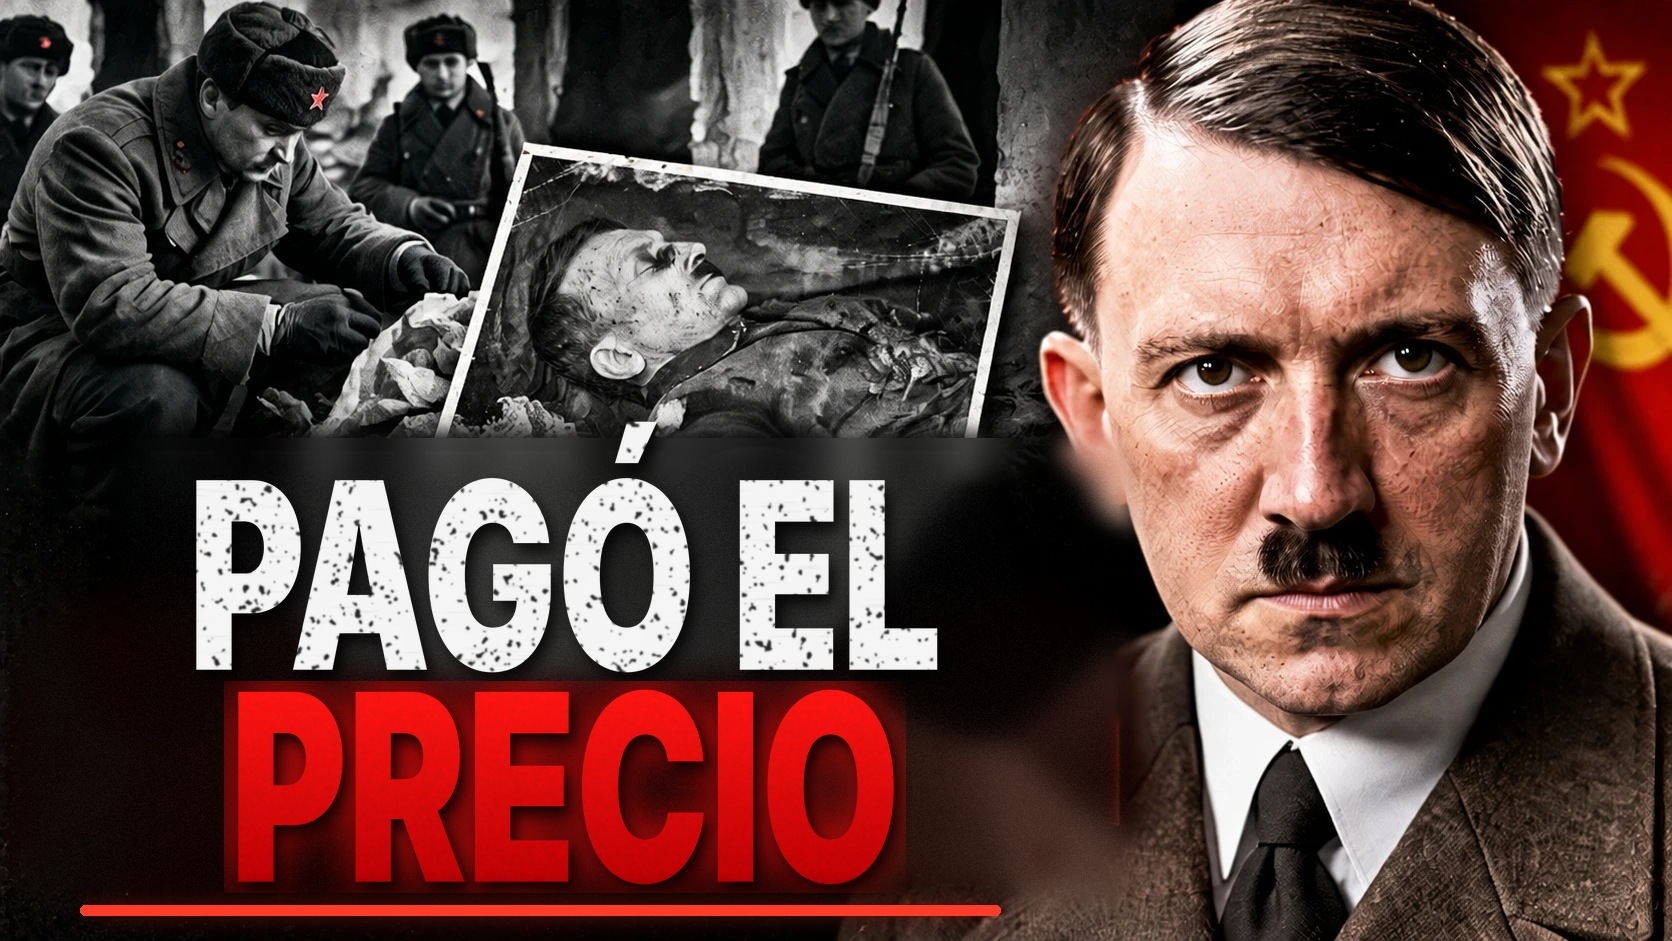
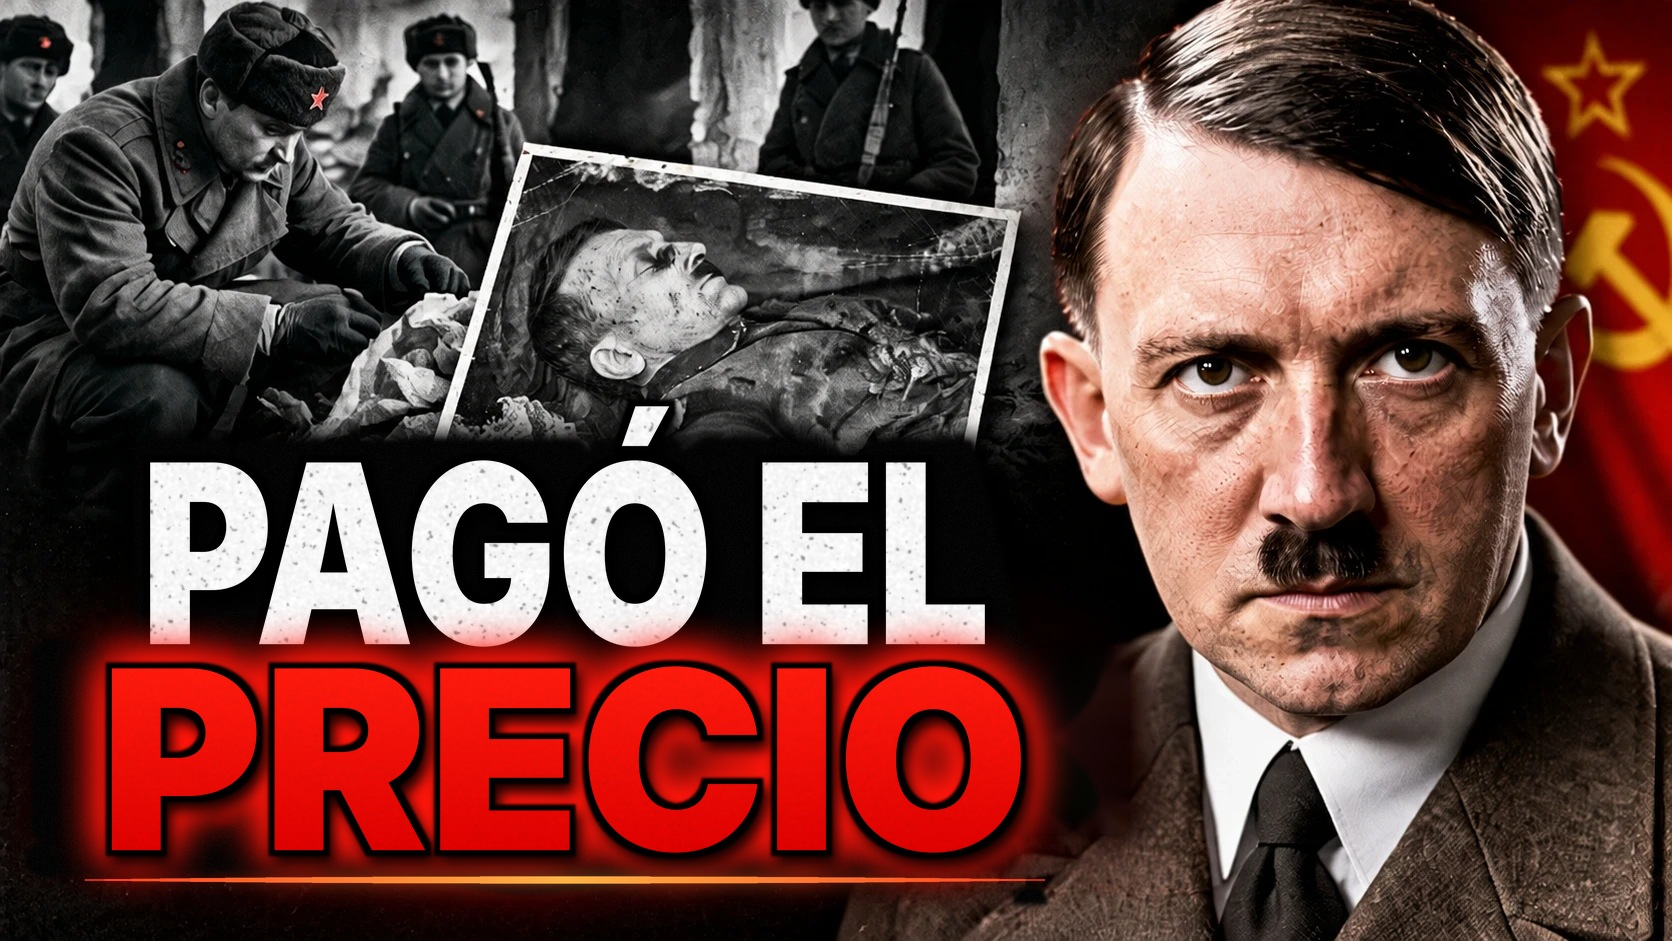
Miniatura PAGO/PRECIO: texto con el mismo formato que la referencia, sin fondo borroso
Claude-Session: https://claude.ai/code/session_011QfsHNEVyrMTuqwhNXZ9Nu

Changed region(s): [[0.0311, 0.4006, 0.6842, 0.9862], [0.622, 0.4623, 0.6842, 0.5855]]

diff --git a/la_cosa_nuestra/miniaturas/cambiar_texto_pago.py b/la_cosa_nuestra/miniaturas/cambiar_texto_pago.py
@@ -1,6 +1,7 @@
 #!/usr/bin/env python3
-"""Reemplaza el texto 'NUNCA / LO MOSTRARON' de la miniatura de referencia (assets/ref_pago_original.png) por
-'PAGÓ EL' (blanco texturizado) y 'PRECIO' (rojo carmesí con brillo). Borra el texto viejo reconstruyendo el fondo oscuro (inpainting).
+"""Reemplaza el texto 'NUNCA / LO MOSTRARON' de la miniatura de referencia (assets/ref_pago_original.png) por otro texto con el MISMO formato:
+linea 1 en blanco desgastado con contorno negro grueso, linea 2 en rojo con contorno negro y brillo, y la linea roja brillante debajo.
+El texto viejo se borra con negro nitido (sin difuminar el fondo).
 Uso: python3 cambiar_texto_pago.py [salida.jpg] [linea1] [linea2]"""
 import os, sys
 import cv2, numpy as np
@@ -8,118 +9,123 @@ from PIL import Image, ImageDraw, ImageFilter, ImageFont
 
 AQUI = os.path.dirname(os.path.abspath(__file__))
 FONT = "/usr/share/fonts/opentype/inter/Inter-Black.otf"
-ZONA = (20, 425, 1128, 905)                       # x0, y0, x1, y1 donde esta el texto viejo (no toca el rostro)
+ZONA = (20, 440, 1128, 905)                       # x0, y0, x1, y1 donde esta el texto viejo (no toca el rostro)
 
 
 def borrar_texto(bgr):
-    """borra el texto viejo (letras + contorno negro + sombra) con inpainting sobre una mascara muy dilatada y grano"""
+    """tapa solo las letras viejas (con su contorno) con negro y grano; el resto de la imagen queda tal cual, sin desenfoque"""
     x0, y0, x1, y1 = ZONA
-    reg = bgr[y0:y1, x0:x1]
-    b, g, r = [reg[..., i].astype(np.int32) for i in range(3)]
+    reg = bgr[y0:y1, x0:x1].astype(np.int32)
+    b, g, r = reg[..., 0], reg[..., 1], reg[..., 2]
     lum = (b + g + r) // 3
-    m = ((lum > 120) | ((r > 120) & (g < 95) & (b < 95)) | ((r > 70) & (r - g > 45))).astype(np.uint8) * 255
-    m = cv2.dilate(m, cv2.getStructuringElement(cv2.MORPH_ELLIPSE, (61, 61)))          # cubre el contorno negro y la sombra
+    blanco = (lum > 150) & (np.abs(r - b) < 40)                                 # letras blancas
+    rojo = (r > 110) & (g < 100) & (b < 100)                                    # letras rojas y brillo
+    m = (blanco | rojo).astype(np.uint8) * 255
+    yy, xx = np.mgrid[0:m.shape[0], 0:m.shape[1]]
+    m[(xx + x0 > 1030) & (yy + y0 < 650)] = 0                                    # no tocar la oreja / cuello del rostro
+    m[(xx + x0 > 1030) & (yy + y0 > 640)] = 0                                    # el hombro se trata aparte (abajo)
+    m = cv2.dilate(m, cv2.getStructuringElement(cv2.MORPH_ELLIPSE, (35, 35)))   # cubre el contorno negro y la sombra
     full = np.zeros(bgr.shape[:2], np.uint8); full[y0:y1, x0:x1] = m
-    full[:y0 + 14] = 0                                                                  # no tocar la foto de arriba
-    chico = cv2.resize(bgr, None, fx=0.4, fy=0.4); mchico = cv2.resize(full, None, fx=0.4, fy=0.4, interpolation=cv2.INTER_NEAREST)
-    rell = cv2.inpaint(chico, mchico, 12, cv2.INPAINT_TELEA)
-    rell = cv2.GaussianBlur(rell, (0, 0), 4)
-    grande = cv2.resize(rell, (bgr.shape[1], bgr.shape[0]), interpolation=cv2.INTER_CUBIC)
-    sel = cv2.GaussianBlur(full.astype(np.float32) / 255.0, (0, 0), 10)
-    ruido = np.random.default_rng(2).normal(0, 3.2, bgr.shape[:2])[..., None]
-    out = bgr.astype(np.float32) * (1 - sel[..., None]) + (grande + ruido) * sel[..., None]
-    out = np.clip(out, 0, 255)
-    # resto del contorno viejo justo bajo la foto: se funde con la ultima fila de la foto hacia el fondo
-    fila = cv2.GaussianBlur(out[430:437].mean(axis=0, keepdims=True), (0, 0), sigmaX=18)[0]
-    xs = np.arange(out.shape[1]); hor = np.clip(np.minimum(xs - 110, 1040 - xs) / 40.0, 0, 1)
-    for y in range(438, 488):
-        a = ((y - 438) / 50.0) ** 1.3
-        mezcla = fila * (1 - a) + out[y] * a
-        out[y] = out[y] * (1 - hor[:, None]) + mezcla * hor[:, None]
-    out = out.astype(np.uint8)
-    # resto vertical rojo de la ultima letra del texto viejo, junto al hombro
-    r = np.zeros(out.shape[:2], np.uint8); r[640:725, 1104:1128] = 255
-    out = cv2.inpaint(out, r, 6, cv2.INPAINT_TELEA)
+    sel = cv2.GaussianBlur(full.astype(np.float32) / 255.0, (0, 0), 2.5)
+    ruido = np.clip(np.random.default_rng(2).normal(4, 2.2, bgr.shape[:2]), 0, 14)[..., None]
+    out = bgr.astype(np.float32) * (1 - sel[..., None]) + np.repeat(ruido, 3, 2) * sel[..., None]
+    out = np.clip(out, 0, 255).astype(np.uint8)
+    # zona del hombro (x > 1030): se restaura el original y solo se quita el resto rojo/negro de la ultima letra con inpainting local
+    X = 1030; Y0, Y1 = 640, 860
+    sub = bgr[Y0:Y1, X:1130].copy(); b_, g_, r_ = [sub[..., i].astype(np.int32) for i in range(3)]
+    resto = ((r_ > 90) & (r_ - g_ > 45) & (r_ - b_ > 45)).astype(np.uint8) * 255
+    resto = cv2.dilate(resto, cv2.getStructuringElement(cv2.MORPH_ELLIPSE, (17, 17)))
+    out[Y0:Y1, X:1130] = cv2.inpaint(sub, resto, 7, cv2.INPAINT_TELEA)
     return out
 
 
-def mascara_texto(s, alto_mayus, ancho_max=None, estrecho=0.74):
-    """mascara L del texto en tipografia 'condensada' (Inter Black comprimida en horizontal)"""
+def mascara_texto(s, cap, ancho):
+    """mascara L del texto en tipografia pesada: alto de mayusculas = cap, ancho total = ancho"""
     f = ImageFont.truetype(FONT, 600)
     bb = f.getbbox(s); w, h = bb[2] - bb[0], bb[3] - bb[1]
     m = Image.new("L", (w + 40, h + 40), 0); ImageDraw.Draw(m).text((20 - bb[0], 20 - bb[1]), s, font=f, fill=255)
-    cap = f.getbbox("H")[3] - f.getbbox("H")[1]
-    k = alto_mayus / cap
-    nw = int(m.width * k * estrecho); nh = int(m.height * k * 1.08)
-    if ancho_max and nw > ancho_max:
-        e = ancho_max / nw; nw = int(nw * e)
+    capb = f.getbbox("H"); capb = capb[3] - capb[1]
+    k = cap / capb
+    nh = int(m.height * k)
+    nw = int((m.width - 40) * ancho / (m.width - 40) * 1.0) if False else int(ancho * (m.width / (m.width - 40)))
     return m.resize((nw, nh), Image.LANCZOS)
 
 
-def arriba(m, cap):
-    """filas vacias sobre las mayusculas dentro de la mascara (margen + acento)"""
-    a = (np.asarray(m) > 128).sum(axis=1); filas = np.nonzero(a > 0.3 * a.max())[0]            # ignora el acento (poca tinta)
+def arriba(m):
+    """fila donde empiezan las mayusculas (ignora acentos)"""
+    a = (np.asarray(m) > 128).sum(axis=1); filas = np.nonzero(a > 0.3 * a.max())[0]
     return int(filas[0]) if len(filas) else 0
 
 
-def blanco_piedra(m):
-    """relleno blanco con manchas oscuras de desgaste (estilo piedra/granulado)"""
+def contorno(m, grosor):
+    """mascara agrandada para el contorno negro"""
+    return m.filter(ImageFilter.MaxFilter(2 * grosor + 1)).filter(ImageFilter.GaussianBlur(1.2))
+
+
+def capa_blanca(m):
+    """letras blancas con desgaste gris claro y rayones, contorno negro grueso"""
     w, h = m.size; r = np.random.default_rng(7)
-    base = np.full((h, w), 245, np.float32)
-    gran = cv2.GaussianBlur(r.normal(0, 1, (h, w)).astype(np.float32), (0, 0), 14) * 18
-    base += gran
-    motas = cv2.GaussianBlur(r.random((h, w)).astype(np.float32), (0, 0), 1.6)
-    oscuro = (motas < np.percentile(motas, 5.5)).astype(np.float32)
-    oscuro = cv2.GaussianBlur(oscuro, (0, 0), 0.9)
-    base = base * (1 - 0.92 * oscuro) + 20 * 0.92 * oscuro
-    rayas = cv2.GaussianBlur((r.random((h, w)) < 0.0008).astype(np.float32), (0, 0), sigmaX=9, sigmaY=0.8) * 400
-    base -= rayas
+    base = np.full((h, w), 247, np.float32)
+    gran = cv2.GaussianBlur(r.normal(0, 1, (h, w)).astype(np.float32), (0, 0), 9) * 16
+    fino = cv2.GaussianBlur(r.normal(0, 1, (h, w)).astype(np.float32), (0, 0), 1.3) * 16
+    base += gran + fino
+    motas = cv2.GaussianBlur(r.random((h, w)).astype(np.float32), (0, 0), 1.2)
+    oscuro = cv2.GaussianBlur((motas < np.percentile(motas, 2.2)).astype(np.float32), (0, 0), 0.8)
+    base = base * (1 - 0.55 * oscuro) + 60 * 0.55 * oscuro
     base = np.clip(base, 0, 255).astype(np.uint8)
-    rgb = Image.fromarray(np.dstack([base] * 3), "RGB").convert("RGBA"); rgb.putalpha(m)
-    return rgb
+    cara = Image.fromarray(np.dstack([base] * 3), "RGB").convert("RGBA"); cara.putalpha(m)
+    return cara
 
 
-def rojo_carmesi(m):
+def capa_roja(m):
     w, h = m.size
-    g = np.linspace(0, 1, h)[:, None]
-    r_ = (255 - 70 * g) * np.ones((h, w)); g_ = (22 - 22 * g) * np.ones((h, w)); b_ = (18 - 14 * g) * np.ones((h, w))
-    ruido = cv2.GaussianBlur(np.random.default_rng(3).normal(0, 1, (h, w)).astype(np.float32), (0, 0), 1.0) * 10
-    arr = np.clip(np.dstack([r_ + ruido, g_, b_]), 0, 255).astype(np.uint8)
-    rgb = Image.fromarray(arr, "RGB").convert("RGBA"); rgb.putalpha(m)
-    return rgb
+    t = np.linspace(0, 1, h)[:, None]
+    R = (255 - 35 * t) * np.ones((h, w)); G = (28 - 28 * t) * np.ones((h, w)); B = (14 - 14 * t) * np.ones((h, w))
+    ruido = cv2.GaussianBlur(np.random.default_rng(3).normal(0, 1, (h, w)).astype(np.float32), (0, 0), 1.0) * 8
+    arr = np.clip(np.dstack([R + ruido, G, B]), 0, 255).astype(np.uint8)
+    cara = Image.fromarray(arr, "RGB").convert("RGBA"); cara.putalpha(m)
+    return cara
 
 
-def pegar(base, capa, xy, sombra=True, brillo=None):
-    b = base.convert("RGBA")
+def pegar(base, cara, m, xy, grosor, brillo=None, gl=24):
+    """pega letras con contorno negro grueso, sombra y (opcional) brillo de color; usa margen para que no se corte el halo"""
+    P = 70
+    mp = Image.new("L", (m.width + 2 * P, m.height + 2 * P), 0); mp.paste(m, (P, P))
+    cp = Image.new("RGBA", mp.size, (0, 0, 0, 0)); cp.paste(cara, (P, P))
+    b = base.convert("RGBA"); x, y = xy[0] - P, xy[1] - P
+    cnt = contorno(mp, grosor)
     if brillo:
-        al = capa.split()[3]; gl = Image.new("RGBA", capa.size, brillo + (255,)); gl.putalpha(al.filter(ImageFilter.GaussianBlur(22)).point(lambda v: min(255, int(v * 1.1))))
-        b.alpha_composite(gl, xy)
-    if sombra:
-        sh = Image.new("RGBA", capa.size, (0, 0, 0, 255)); sh.putalpha(capa.split()[3].filter(ImageFilter.GaussianBlur(7)).point(lambda v: int(v * 0.85)))
-        b.alpha_composite(sh, (xy[0] + 6, xy[1] + 9))
-    b.alpha_composite(capa, xy)
+        halo = Image.new("RGBA", mp.size, brillo + (255,)); halo.putalpha(cnt.filter(ImageFilter.GaussianBlur(gl)).point(lambda v: min(255, int(v * 1.4))))
+        b.alpha_composite(halo, (x, y)); b.alpha_composite(halo, (x, y))
+    sh = Image.new("RGBA", mp.size, (0, 0, 0, 255)); sh.putalpha(cnt.filter(ImageFilter.GaussianBlur(6)).point(lambda v: int(v * 0.9)))
+    b.alpha_composite(sh, (x + 5, y + 9))
+    neg = Image.new("RGBA", mp.size, (0, 0, 0, 255)); neg.putalpha(cnt)
+    b.alpha_composite(neg, (x, y)); b.alpha_composite(cp, (x, y))
     return b.convert("RGB")
 
 
-def linea_brillo(base, x0, x1, y):
-    b = base.convert("RGBA"); S = Image.new("RGBA", b.size, (0, 0, 0, 0)); d = ImageDraw.Draw(S)
-    d.rounded_rectangle((x0, y - 5, x1, y + 5), 5, fill=(255, 60, 40, 255))
-    halo = S.filter(ImageFilter.GaussianBlur(14)); b.alpha_composite(halo); b.alpha_composite(halo); b.alpha_composite(S)
+def linea_brillo(base, cx, ancho, y):
+    """linea roja/naranja brillante, mas gruesa en el centro, con halo"""
+    b = base.convert("RGBA"); S = 3
+    capa = Image.new("RGBA", (b.width * S, 80 * S), (0, 0, 0, 0)); d = ImageDraw.Draw(capa)
+    for i in range(0, ancho * S, 2):
+        t = i / (ancho * S); grosor = (1 - abs(2 * t - 1) ** 2.2) * 6 * S + 0.8 * S
+        col = (255, int(60 + 120 * (1 - abs(2 * t - 1))), int(30 + 40 * (1 - abs(2 * t - 1))), 255)
+        d.line([(cx * S - ancho * S / 2 + i, 40 * S - grosor / 2), (cx * S - ancho * S / 2 + i, 40 * S + grosor / 2)], fill=col, width=3)
+    capa = capa.resize((b.width, 80), Image.LANCZOS)
+    halo = capa.filter(ImageFilter.GaussianBlur(10)); b.alpha_composite(halo, (0, y - 40)); b.alpha_composite(halo, (0, y - 40)); b.alpha_composite(capa, (0, y - 40))
     return b.convert("RGB")
 
 
 def main(salida, l1="PAGÓ EL", l2="PRECIO"):
     bgr = cv2.imread(os.path.join(AQUI, "assets", "ref_pago_original.png"))
-    limpio = borrar_texto(bgr)
-    im = Image.fromarray(cv2.cvtColor(limpio, cv2.COLOR_BGR2RGB))
-    CAP = 176
-    m1 = mascara_texto(l1, CAP, ancho_max=1000); c1 = blanco_piedra(m1)
-    m2 = mascara_texto(l2, CAP, ancho_max=1040); c2 = rojo_carmesi(m2)
-    cx = 565
-    top1, top2 = 480, 692                                           # y de la parte superior de las mayusculas
-    im = pegar(im, c1, (cx - c1.width // 2, top1 - arriba(m1, CAP)))
-    im = pegar(im, c2, (cx - c2.width // 2, top2 - arriba(m2, CAP)), brillo=(200, 10, 10))
-    im = linea_brillo(im, 80, 1000, top2 + CAP + 42)
+    im = Image.fromarray(cv2.cvtColor(borrar_texto(bgr), cv2.COLOR_BGR2RGB))
+    CAP = 182
+    m1 = mascara_texto(l1, CAP, 850); m2 = mascara_texto(l2, CAP, 930)
+    cx = 565; top1, top2 = 462, 668
+    im = pegar(im, capa_blanca(m1), m1, (cx - m1.width // 2, top1 - arriba(m1)), grosor=7)
+    im = pegar(im, capa_roja(m2), m2, (cx - m2.width // 2, top2 - arriba(m2)), grosor=6, brillo=(255, 20, 10), gl=22)
+    im = linea_brillo(im, cx, 960, 880)
     im.save(salida, quality=93, optimize=True); print(salida)
 
 
